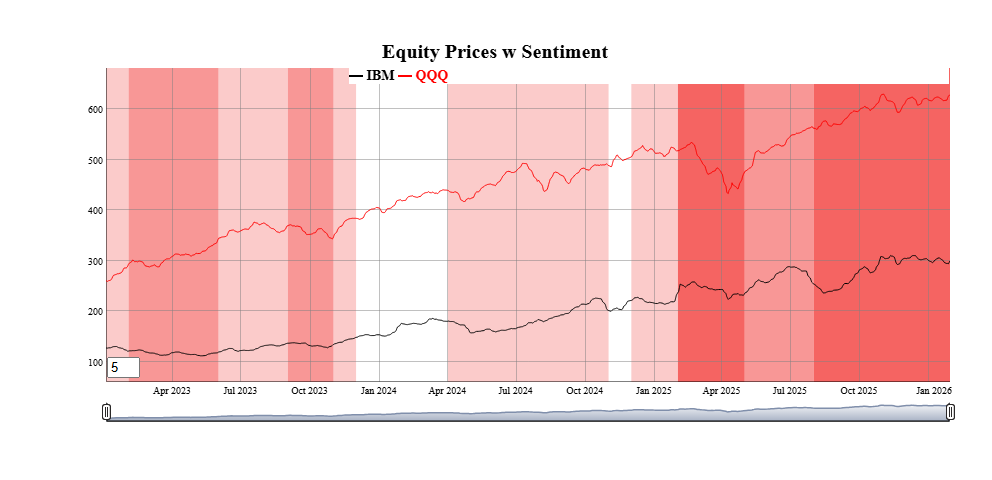
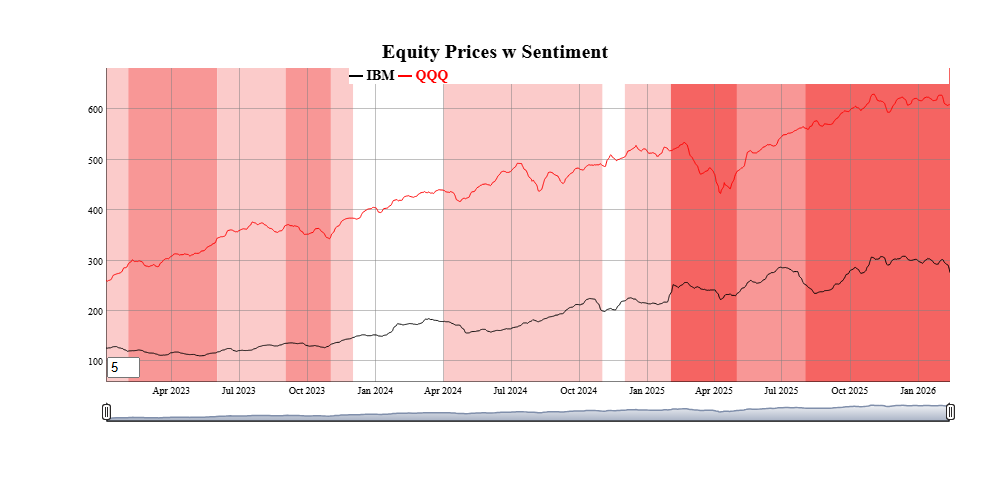
vignettes, imports

diff --git a/README.md b/README.md
@@ -43,16 +43,11 @@ series associated with the prefix of the name.
 
 Consistent colors used for all series and annotations are kept in a
 local (persistent) settings `data.frame`. Default color schemes can be
-changed (again persisantly) using the \[fg_update_colors()\] function.
+changed (again persistently) using the `fg_update_aes()` function.
 
 ## Simple Examples
 
 ``` r
-require(FinanceGraphs)
-#> Loading required package: FinanceGraphs
-#> Registered S3 method overwritten by 'quantmod':
-#>   method            from
-#>   as.zoo.data.frame zoo
 fgts_dygraph(eqtypx, title="Stock Prices", ylab="Adjusted Close")
 ```
 
@@ -65,11 +60,12 @@ window* of the form “start::end” can be used in the `dtwindow`
 parameter. Each end of the window can be a full date (e.g. “2022-01-01”)
 or a relative date string (e.g. “-6m” for 6 months ago.
 
-- One of the most appealing features of \[dygraphs\] is the ability to
-  smooth series interactively. The `roller` parameter adds a rolling
-  average smoother of the specified width (in data points). A default
-  smoothing parameter is chosen depending on the length of the
-  underlying data, but can be overridden using the `roller` parameter.
+- One of the most appealing features of
+  [dygraphs](https://dygraphs.com/) is the ability to smooth series
+  interactively. The `roller` parameter adds a rolling average
+  smootherof the specified width (in data points). A default smoothing
+  parameter is chosen depending on the length of the underlying data,
+  but can be overridden using the `roller` parameter.
 
 - Individual series can be altered in several ways:
 
@@ -124,9 +120,9 @@ Events always have a start date and a text label. THey are shown as
 vertical lines on the graph unless they also have an End Date, in which
 case the entire region is shaded. Event strings starting with `doi`
 (date of interest) are predefined events included with the package.
-Those are customizable using the \[fg_update_dates_of_interest()\] and
-can be listed using \[fg_list_dates_of_interest()\]. Event strings can
-be added together with semicolons, as in the following example:
+Those are customizable using the `fg_update_dates_of_interest()` and can
+be listed using `fg_list_dates_of_interest()`. Event strings can be
+added together with semicolons, as in the following example:
 
 ``` r
 smalldta <- eqtypx[date>=as.Date("2023-01-01"),.(date,IBM,QQQ)]
@@ -134,7 +130,7 @@ fgts_dygraph(smalldta,title="With Events",ylab="Price",events="doi,regm;doi,fedm
 ```
 
 <img src="man/figures/README-Events1-1.png" alt="Graph of Equity Prices showing Event styles" width="100%" />
-Several types of events are predefined in \[fgts_dygraph()\] including
+Several types of events are predefined in `fgts_dygraph()` including
 equity option expirations, IMM CDS roll dates, seasonal events
 (e.g. “same day in quarter as last observation”) and series extremes.
 See the vignette for more examples. Events can also be passed in as a
@@ -143,10 +139,9 @@ See the vignette for more examples. Events can also be passed in as a
 ### Event helpers
 
 Custom events can also be passed in `data.frame` format using the
-`event_ds` parameter. The details are in \[fgts_dygraph()\], but the
-basic columns are a start date date, a text label, and if applicable an
-end date. Only events within the dates of the original input data are
-shown.
+`event_ds` parameter. The details are in `fgts_dygraph()`, but the basic
+columns are a start date date, a text label, and if applicable an end
+date. Only events within the dates of the original input data are shown.
 
 The package includes a few “event helpers” to make it easy to generate
 the right formats for given more complicated types of events and
@@ -157,7 +152,6 @@ two that can be done.
 events_consumer_sent <- fg_cut_to_events(consumer_sent,center="zscore")
 head(events_consumer_sent,2)
 #>    value     color END_DT_ENTRY   DT_ENTRY runlen
-#>    <int>    <char>       <Date>     <Date>  <int>
 #> 1:     3 #9595FFFF   2016-03-02 2016-01-01      3
 #> 2:     2 #CACAFFFF   2016-04-02 2016-03-02      1
 fgts_dygraph(smalldta,title="Equity Prices w Sentiment",event_ds=events_consumer_sent)
@@ -185,11 +179,9 @@ to show the transition.
 
 ``` r
 head(example_fcst_set,2)
-#> Key: <date>
 #>          date    QQQ.f  QQQ.flo  QQQ.fhi    IBM.f  IBM.flo  IBM.fhi
-#>        <Date>     <ts>    <num>    <num>     <ts>    <num>    <num>
-#> 1: 2026-01-31 622.6611 615.9843 629.3379 306.9482 301.3265 312.5699
-#> 2: 2026-02-01 622.9118 613.7795 632.0441 307.1080 299.3237 314.8924
+#> 1: 2026-02-14 601.8882 593.7090 610.0673 262.3268 256.2824 268.3712
+#> 2: 2026-02-15 601.8882 590.6732 613.1032 262.3268 253.8659 270.7877
 fgts_dygraph(smalldta,title="With Forecasts", dtstartfrac=0.7,forecast_ds=example_fcst_set)
 ```
 
@@ -204,37 +196,32 @@ outputs into the appropriate `foreast_ds` forms
 | `fg_sweep()` | Converts [tidy forecast objects](https://business-science.github.io/sweep/) to `forecast_ds` form. |
 | `fg_prophet()` | Converts [Prophet](https://business-science.github.io/sweep/) to `forecast_ds` form. |
 
-## Changing colors and adding dates of interest
+## Changing aesthetics and adding dates of interest
 
 Default colors for series and annotations can be changed using
-\[fg_update_colors()\] or \[fg_update_line_colors()\].  
-Any changes made to colors will persist across loads of the package
-(unless `persist=FALSE` is specified). As an example, to make a
-graduated set of colors for the first 3 series.
+`fg_update_aes()` or `fg_update_line_colors()`. Any changes made to
+aesthetics colors will persist across loads of the package (unless
+`persist=FALSE` is specified). To see what aesthetics are used for any
+particular function, use `fg_print_aes_list()` As an example, to make a
+graduated set of colors for the first 2 series.
 
 ``` r
-fg_get_colors("lines",n_max=4)
-#>    category variable     color  const
-#>      <char>   <char>    <char> <char>
-#> 1:    lines      D01     black       
-#> 2:    lines      D02       red       
-#> 3:    lines      D03 darkgreen       
-#> 4:    lines      D04      blue
-fg_update_line_colors( rev(RColorBrewer::brewer.pal(8,"GnBu"))[1:3] )
-#> Saved Colors of interest file to C:\Users\DFH\AppData\Local/R/cache/R/FinanceGraphs/fg_colors.RD
-fg_get_colors("lines",n_max=4)
-#> Key: <category, variable>
-#>    category variable   color  const
-#>      <char>   <char>  <char> <char>
-#> 1:    lines      D01 #08589E       
-#> 2:    lines      D02 #2B8CBE       
-#> 3:    lines      D03 #4EB3D3       
-#> 4:    lines      D04    blue
+fg_get_aes("lines",n_max=2)
+#>    category variable  type value const used                     helpstr
+#> 1:    lines      D01 color black        all Low cardinality line colors
+#> 2:    lines      D02 color   red        all Low cardinality line colors
+fg_update_line_colors( rev(RColorBrewer::brewer.pal(8,"GnBu"))[1:2] )
+#> Saved updates to C:\Users\DFH\AppData\Local/R/cache/R/FinanceGraphs/fg_aes.RD
+fg_get_aes("lines",n_max=3)
+#>    category variable  type   value const used                     helpstr
+#> 1:    lines      D01 color #08589E        all Low cardinality line colors
+#> 2:    lines      D02 color #2B8CBE        all Low cardinality line colors
+#> 3:    lines      D03 color    blue        all Low cardinality line colors
 ```
 
 New dates of interest used for the `events` parameter can also be added.
 To add (for example) a new FOMC cut of 50bps on 6/16/2026 (after the
-development of this package), use \[fg_update_dates_of_interest()\].
+development of this package), use `fg_update_dates_of_interest()`.
 Resetting the lists (and colors) can also be done.
 
 ``` r
@@ -243,9 +230,12 @@ fg_update_dates_of_interest(newdoi)
 #> Saved dates of interest file to C:\Users\DFH\AppData\Local/R/cache/R/FinanceGraphs/fg_doi.RD
 tail(fg_get_dates_of_interest("fedmoves"),2)  |> data.frame()
 #>   category eventid eventid2   DT_ENTRY END_DT_ENTRY color strokePattern  loc
-#> 1 fedmoves   F:-25  rt:3.75 2025-12-10   2025-12-10  <NA>          <NA> <NA>
-#> 2 fedmoves   F:-50     <NA> 2026-06-16   2026-06-16  <NA>          <NA> <NA>
+#> 1 fedmoves   F:-25     rt:4 2025-10-29   2025-10-29  <NA>          <NA> <NA>
+#> 2 fedmoves   F:-25  rt:3.75 2025-12-10   2025-12-10  <NA>          <NA> <NA>
 fg_reset_to_default_state()
+#> Removing dates file and reverting to defaults of package
+#> Removing Aesthetics file and reverting to defaults of package
+#> Removing User-made Themes and reverting to defaults of package
 #> fg_reset_to_default_state(all) completed
 ```
 
@@ -254,26 +244,86 @@ fg_reset_to_default_state()
 Dygraphs have the very nice feature of allowing synchronized zoom in
 Markdown or Shiny applications. Each graph with a common `group`
 identifier is synchronized. There are times, however, when you want to
-turn these on or off. The function \[fg_sync_group()\] either returns
-the current group name if called with no parameters, sets the group name
+turn these on or off. The function `fg_sync_group()` either returns the
+current group name if called with no parameters, sets the group name
 with a string, or turns off synchronization with a call
 `fg_sync_group(NULL)`.
 
 # Static Plots for Time Series
 
+## Scatter Plots with time dimension enhancements
+
+Key to understanding how time series co-move is a simple scatter plot.
+The function `fg_scatplot()` tries to be a concise wrapper around the
+very comprehensive [ggplot2](https://ggplot2.tidyverse.org/) graphics
+framework.
+``` ggplot2()]`` is a great ecosystem, but requires quite a bit of verbiage to get from idea to presentable graph quickly.  The approach used here is to specify broad categories of aesthetics with a formula, while the details are kept behind the hood using the aesthetic sets managed by ```fg_get_aes()\`
+as above. Fuller explanations and more examples are in the accompanying
+vignette.
+
+This “one-line” approach can be used with both date-based and non-date
+based datasets. For example, suppose we wanted to plot two asset prices
+against each other so that we can easily understand both how they
+co-move, where they have been recently, and where they are now. We will
+start by making a fake dataset of two sets of two assets each.
+
+``` r
+set.seed(1)
+ndates <- 400;
+samp_rw <- function() { 100*(1+cumsum(rnorm(ndates,sd=0.2/sqrt(260)))) }
+dts <- seq(as.Date("2021-01-01"),as.Date("2021-01-01")+ndates-1)
+dttest <- rbind( data.table(date=dts,ccat="A",px_x=samp_rw(),px_y=samp_rw()),
+                 data.table(date=dts,ccat="B",px_x=samp_rw(),px_y=samp_rw()))
+```
+
+A scatter plot of where those two assets are and where they have been is
+as easy as specifying (in one string!) columns to plot, a column for
+color, and a term to split the dates into 2 month and 6 month intervals,
+and finally a term to show where the latest observations are. As with
+`fgts_dygraph()`, date partitions can be custom regimes managed by
+`fg_update_dates_of_interest()`.
+
+``` r
+fg_scatplot(dttest,"px_y ~ px_x + color:ccat + doi:recent + point:label","lmone",datecuts=c(60,182),title="Splitting dates")
+#> Warning in `[.data.table`(break_set, a2, on = .(BEG_DT_ENTRY <= dt,
+#> END_DT_ENTRY > : Both 'tcollist' and '..tcollist' exist in calling scope.
+#> Please remove the '..tcollist' variable in calling scope for clarity.
+```
+
+<img src="man/figures/README-Scatter1-1.png" alt="Scatterplot with two categories and recent highlighting." width="100%" />
+One important feature of the static plots in this package to note is
+that they include options for switching the colors of large numbers of
+groups or points from discrete values to continuous values from the
+[RColorBrewer](https://colorbrewer2.org/#type=sequential&scheme=BuGn&n=3)
+package.
+
+`fg_scatplot()` does not require dates in the input data, and can be
+useful for communicating comparative analyses as well. The `mtcars`
+dataset shows how we can add a lot of information to a basic text
+scatterplot.
+
+``` r
+dt_mtcars=data.table(datasets::mtcars)[,let(id=lapply(rownames(datasets::mtcars),\(x) last(strsplit(x," ")[[1]])))]
+fg_scatplot(dt_mtcars,"disp ~ hp + color:carb + label:id","lmonenoeqn",n_color_switch=0,title="Text with color switch")
+```
+
+<img src="man/figures/README-Scatter2-1.png" alt="Scatterplot with text and linear models" width="100%" />
+
+Many more examples that encapsulate a large part of the
+[ggplot2](https://ggplot2.tidyverse.org/) corpus are in the accompanying
+vignette.
+
 ## Time-categorized box plots
 
 One way to visualize multiple time series comparatively with a boxplot
-or a violin plot. The function \[fg_tsboxplot()\] provides a flexible
-way to split several time series into time categories. Usually, those
+or a violin plot. The function `fg_tsboxplot()` provides a flexible way
+to split several time series into time categories. Usually, those
 categories are time periods with increasing horizons, but this function
-allows for arbitrary periods managed by
-\[fg_update_dates_of_interest()\]. Data can be normalized across
-historical categories and time series categories.
-
-As an example, suppose we would like to see normalized equity prices
-over the past two years, split into categories of the last week, month
-(less the last week) and the last quarter.
+allows for arbitrary periods managed by `fg_update_dates_of_interest()`.
+Data can be normalized across historical categories and time series
+categories. As an example, suppose we would like to see normalized
+equity prices over the past two years, split into categories of the last
+week, month (less the last week) and the last quarter.
 
 ``` r
 fg_tsboxplot(narrowbydtstr(eqtypx,"-2y::"),breaks=c(7,90),normalize="byvar",title="Normalized Equity prices by Date category")
@@ -284,14 +334,14 @@ fg_tsboxplot(narrowbydtstr(eqtypx,"-2y::"),breaks=c(7,90),normalize="byvar",titl
 
 <img src="man/figures/README-Boxplot1-1.png" alt="Boxplot of relative equity prices" width="100%" />
 
-Like \[fgts_dygraph()\], the function can take data in both wide and
-long formats. Longer formats have the advantage of adding more
-categorical levels to our graphs. For example, we can plotting recent
-ranges of the monthly FX Real Exchange Rate dataset in the following
-way. Here, we split the data into buckets of last 20pct of the months,
-the first half the months and the last. We will also show the last
-observation, hide the boxplot whiskers, and reorder the currencies by
-their relative weakness.
+Like `fgts_dygraph()`, the function can take data in both wide and long
+formats. Longer formats have the advantage of adding more categorical
+levels to our graphs. For example, we can plotting recent ranges of the
+monthly FX Real Exchange Rate dataset in the following way. Here, we
+split the data into buckets of last 20pct of the months, the first half
+the months and the last. We will also show the last observation, hide
+the boxplot whiskers, and reorder the currencies by their relative
+weakness.
 
 ``` r
 fg_tsboxplot(reerdta,breaks=c(0,0.2,0.5,1),doi="last",orderby="value",boxtype="nowhisker",facetform=". ~ REGION",title="Real Eff. Exch Rates")
@@ -301,3 +351,38 @@ fg_tsboxplot(reerdta,breaks=c(0,0.2,0.5,1),doi="last",orderby="value",boxtype="n
 ```
 
 <img src="man/figures/README-Boxplot2-1.png" alt="Boxplot of Real Effective Exchange Rates" width="100%" />
+
+## Event Studies
+
+Trying to understand how events or environments may impact prices can be
+summarized well by plotting their movements relative to a date against
+time relative to the event. The function `fg_eventStudy()` integrates a
+set of dates with a set of time series to plot their relative behavior
+over the business days before and after each event. It is designed to
+show reasonably large sets of assets or event dates by switching
+discrete color scales to gradient scales after a user specified number.
+
+There are several ways to show the data, including path-by-path,
+statistics by event (i.e. across assets) or by asset (across events),
+boxplots, or scatter plots of moves at the edge of the intervals.
+
+For example, to see the behavior of various parts of the US yield curve
+around FOMC cuts, just use the following
+
+``` r
+dtset <- fg_get_dates_of_interest("fedmoves")[grepl("F:-",eventid),.(DT_ENTRY,text=eventid2)]
+fg_eventStudy(yc_CMSUST,dtset,output="pathbyvar",
+              title="Constant Maturity UST tenors around Fed Cuts")
+```
+
+<img src="man/figures/README-EventStudies1-1.png" alt="Relative rate moves around recent Fed Cuts" width="100%" />
+
+We can see that curves reach their peak steepening around a week after
+the event. To see this a little more succinctly, we can use
+
+``` r
+fg_eventStudy(yc_CMSUST,dtset,output="scatter",nbd_back=5,nbd_fwd=6,
+                title="Constant Maturity UST tenors around Fed Cuts at 5 days")
+```
+
+<img src="man/figures/README-EventStudies2-1.png" alt="Scatter plot of moves before and after Fed Rate Cuts" width="100%" />
